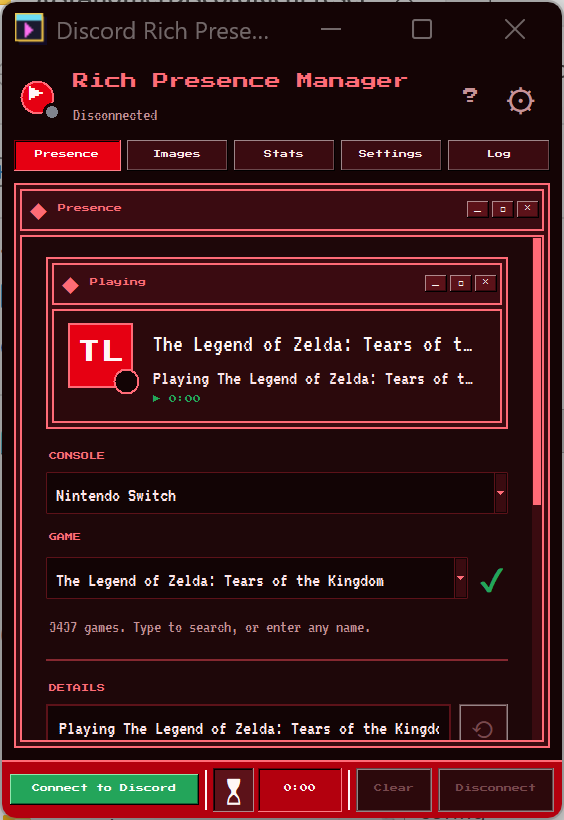
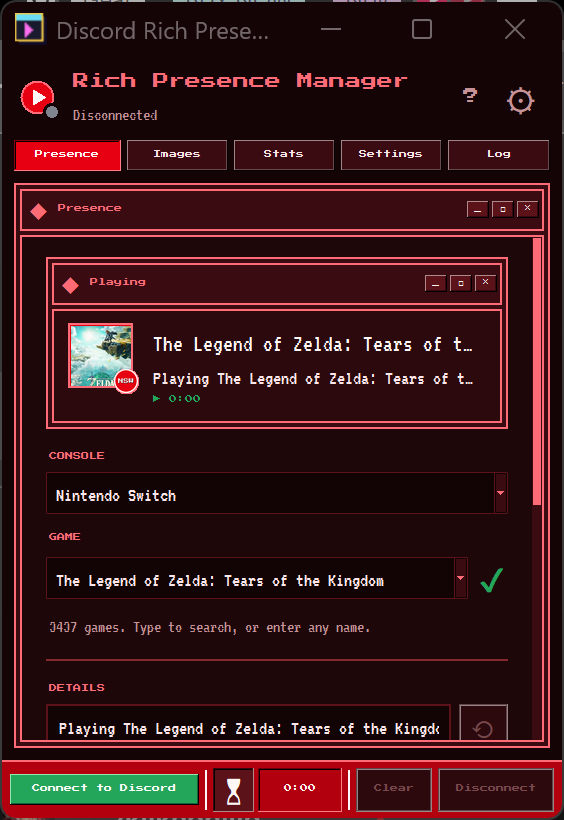
Add console badges and richer presence previews
Generate and bundle console-specific badges for Discord small images, add local/remote image previews to the app, and set the activity title to the game name when Discord accepts it. Update build dependencies and README guidance accordingly.

Changed region(s): [[0.9645, 0.0, 1.0, 1.0], [0.0, 0.0, 0.0904, 1.0], [0.1206, 0.3963, 0.2411, 0.4878]]

diff --git a/main.py b/main.py
@@ -5,6 +5,7 @@ import tkinter as tk
 from tkinter import ttk, messagebox, filedialog
 import base64
 import configparser
+import io
 import os
 import sys
 import threading
@@ -18,8 +19,19 @@ import theme
 import time
 from datetime import datetime
 
+try:
+    # Decodes JPG cover art for the preview; without it the preview shows initials
+    from PIL import Image, ImageOps, ImageTk
+except ImportError:
+    Image = None
+
 
 TAB_NAMES = ("Presence", "Images", "Stats", "Settings", "Log")
+
+# Console badges from tools/make_badges.py, as linked from the game database. The
+# preview reads these from the bundled assets/badges/ folder instead of downloading them.
+BADGE_URL = "https://raw.githubusercontent.com/The1Azreen/JustAnotherDiscordRichPresenceApp/main/assets/badges/"
+BADGE_DIR = os.path.join(os.path.dirname(os.path.abspath(__file__)), "assets", "badges")
 
 
 class DiscordRPCApp:
@@ -50,6 +62,9 @@ class DiscordRPCApp:
         self.applied = None        # snapshot of the fields last sent to Discord
         self.reset_buttons = []    # (entry, database column, button)
         self.stats_period = "This month"
+        self.preview_urls = {}     # slot ("large"/"small") -> URL currently shown
+        self.preview_photos = {}   # slot -> PhotoImage, kept alive while displayed
+        self.image_cache = {}      # URL -> decoded image, or None if it failed to load
         
         # Load configuration
         self.load_config()
@@ -203,7 +218,12 @@ class DiscordRPCApp:
             c.create_oval(-1.5, -1.5, 39.5, 39.5, outline=theme.DESKTOP, width=7)
         else:
             c.create_oval(3, 3, 35, 35, fill=theme.BLURPLE, outline=theme.BORDER, width=2)
-            c.create_text(19, 19, text=initial or "▶", fill=theme.ACCENT_FG, font=theme.FONT_TITLE)
+            if initial:
+                c.create_text(19, 20, text=initial, fill=theme.ACCENT_FG, font=theme.FONT_TITLE)
+            else:
+                # Drawn rather than a ▶ glyph, which falls back to another font and sits off-centre;
+                # the triangle's centroid is nudged right of the circle centre so it looks centred
+                c.create_polygon(15, 11, 15, 27, 28, 19, fill=theme.ACCENT_FG, outline="")
         self.status_dot = c.create_oval(26, 26, 41, 41, outline=theme.DESKTOP, width=3,
                                         fill=theme.GREEN if self.connected else theme.OFFLINE)
 
@@ -400,8 +420,11 @@ class DiscordRPCApp:
         self.preview_art.create_rectangle(1, 1, 64, 64, fill=theme.BLURPLE, outline=theme.BORDER, width=2)
         self.preview_initials = self.preview_art.create_text(33, 33, text="?", fill=theme.ACCENT_FG,
                                                              font=theme.FONT_DISPLAY)
+        # Cover art and console badge, filled in from the image URLs by show_preview_image()
+        self.preview_large_image = self.preview_art.create_image(33, 33, state="hidden")
         self.preview_small = self.preview_art.create_oval(46, 46, 70, 70, fill=theme.BG_TERTIARY,
                                                           outline=theme.BORDER, width=2)
+        self.preview_small_image = self.preview_art.create_image(58, 58, state="hidden")
         self.preview_art.grid(row=1, column=0, sticky="nw", padx=(0, 10))
 
         text = tk.Frame(card, bg=theme.CARD)
@@ -887,6 +910,8 @@ class DiscordRPCApp:
 
         has_small = bool(getattr(self, "small_image_entry", None) and self.small_image_entry.get().strip())
         self.preview_art.itemconfig(self.preview_small, state="normal" if has_small else "hidden")
+        if hasattr(self, "small_image_entry"):  # both image fields exist once the Images tab is built
+            self.refresh_preview_images()
 
         if self.show_time_var.get():
             self.preview_timer.config(text=f"▶ {self.elapsed_text()}")
@@ -896,6 +921,68 @@ class DiscordRPCApp:
 
         if hasattr(self, "primary_button"):
             self.refresh_controls()
+
+    def refresh_preview_images(self):
+        """Load the image URLs into the preview when they change (asset keys can't be previewed)."""
+        for slot, entry in (("large", self.large_image_entry), ("small", self.small_image_entry)):
+            url = entry.get().strip()
+            if url == self.preview_urls.get(slot):
+                continue
+            self.preview_urls[slot] = url
+            local = os.path.join(BADGE_DIR, url[len(BADGE_URL):]) if url.startswith(BADGE_URL) else None
+            if Image and local and os.path.isfile(local):
+                if url not in self.image_cache:
+                    try:
+                        self.image_cache[url] = Image.open(local).convert("RGBA")
+                    except OSError:
+                        self.image_cache[url] = None
+                self.show_preview_image(slot, self.image_cache[url])
+                continue
+            if Image and url.lower().startswith(("http://", "https://")):
+                if url in self.image_cache:
+                    self.show_preview_image(slot, self.image_cache[url])
+                    continue
+                threading.Thread(target=self.fetch_preview_image, args=(slot, url), daemon=True).start()
+            self.show_preview_image(slot, None)
+
+    def fetch_preview_image(self, slot, url):
+        """Download and decode an image off the UI thread, then hand it back to Tk."""
+        try:
+            # Wikimedia and some other hosts refuse requests without a User-Agent
+            request = urllib.request.Request(url, headers={"User-Agent": "JustAnotherDRP/1.0"})
+            with urllib.request.urlopen(request, timeout=10) as response:
+                data = response.read(8 * 1024 * 1024)
+            image = Image.open(io.BytesIO(data))
+            image = image.convert("RGBA")
+        except Exception as e:
+            print(f"Could not load preview image {url}: {e}")
+            image = None
+        self.root.after(0, self.on_preview_image, slot, url, image)
+
+    def on_preview_image(self, slot, url, image):
+        self.image_cache[url] = image
+        if self.preview_urls.get(slot) == url:  # ignore downloads the user has since replaced
+            self.show_preview_image(slot, image)
+
+    def show_preview_image(self, slot, image):
+        """Show cover art (cropped square) or the console badge (fitted in the circle)."""
+        c = self.preview_art
+        item = self.preview_large_image if slot == "large" else self.preview_small_image
+        if image is None:
+            self.preview_photos.pop(slot, None)
+            c.itemconfig(item, image="", state="hidden")
+            if slot == "large":
+                c.itemconfig(self.preview_initials, state="normal")
+            return
+        if slot == "large":
+            picture = ImageOps.fit(image, (60, 60), Image.LANCZOS)
+        else:
+            picture = ImageOps.contain(image, (24, 24), Image.LANCZOS)  # fills the badge circle
+        photo = ImageTk.PhotoImage(picture)
+        self.preview_photos[slot] = photo
+        c.itemconfig(item, image=photo, state="normal")
+        if slot == "large":
+            c.itemconfig(self.preview_initials, state="hidden")
 
     def refresh_controls(self):
         """Sync buttons and markers that depend on the current inputs."""
@@ -1308,13 +1395,17 @@ That's it! Click "Load" to import your games from Google Sheets.
             small_image=small_image if small_image else None,
             small_text=small_text if small_text else None,
             start_timestamp=self.start_time,
-            party_size=self.party_size()
+            party_size=self.party_size(),
+            name=game or None
         )
-        
+
         if success:
             self.applied = self.presence_fields()
             self.session_logger.start(game or large_text or details, self.console_combo.get().strip() or None)
             self.log_message("Presence updated successfully")
+            if game and self.rpc.name_accepted is False:
+                self.log_message("Discord kept your application's name as the activity title. "
+                                 "Rename the app in the Developer Portal to change it.")
             self.refresh_primary_button()
         else:
             self.log_message("ERROR: Failed to update presence")

diff --git a/tools/make_badges.py b/tools/make_badges.py
@@ -1,0 +1,68 @@
+"""
+Draw assets/badges/*.png: pixel-style console badges for Discord's small image.
+
+Each badge is a brand-coloured circle (PlayStation blue, Xbox green, Nintendo red)
+with a light ring and the console's short name in the bundled pixel font, so it
+stays readable at the ~20px Discord shows small images at, on a dark profile.
+
+The game database links to them on GitHub (see BADGE_URL in main.py), so commit
+and push new badges before Discord can show them.
+
+Needs Pillow: pip install pillow
+Usage: python tools/make_badges.py [output dir]   (default: assets/badges/)
+"""
+import os
+import sys
+
+from PIL import Image, ImageDraw, ImageFont
+
+ROOT = os.path.dirname(os.path.dirname(os.path.abspath(__file__)))
+FONT = os.path.join(ROOT, "fonts", "PressStart2P-Regular.ttf")
+SIZE = 256
+
+SONY, XBOX, NINTENDO = "#0070D1", "#107C10", "#E60012"
+BADGES = {  # database sheet name -> (file name, label, colour)
+    "PS1": ("ps1", "PS1", SONY), "PS2": ("ps2", "PS2", SONY), "PS3": ("ps3", "PS3", SONY),
+    "PS4": ("ps4", "PS4", SONY), "PS5": ("ps5", "PS5", SONY), "PSP": ("psp", "PSP", SONY),
+    "PS Vita": ("ps-vita", "VITA", SONY),
+    "OG Xbox": ("xbox", "XBOX", XBOX), "Xbox 360": ("xbox-360", "360", XBOX),
+    "Xbox One": ("xbox-one", "ONE", XBOX), "Xbox Series X": ("xbox-series", "X|S", XBOX),
+    "NES": ("nes", "NES", NINTENDO), "SNES": ("snes", "SNES", NINTENDO),
+    "Nintendo 64": ("n64", "N64", NINTENDO), "GameCube": ("gamecube", "GC", NINTENDO),
+    "Wii": ("wii", "Wii", NINTENDO), "Wii U": ("wii-u", "WiiU", NINTENDO),
+    "Nintendo Switch": ("switch", "NSW", NINTENDO), "Nintendo Switch 2": ("switch-2", "NS2", NINTENDO),
+    "Game Boy": ("game-boy", "GB", NINTENDO), "Game Boy Color": ("game-boy-color", "GBC", NINTENDO),
+    "Game Boy Advance": ("game-boy-advance", "GBA", NINTENDO),
+    "Nintendo DS": ("ds", "DS", NINTENDO), "Nintendo 3DS": ("3ds", "3DS", NINTENDO),
+}
+
+
+def badge(label, colour):
+    img = Image.new("RGBA", (SIZE, SIZE), (0, 0, 0, 0))
+    d = ImageDraw.Draw(img)
+    d.ellipse((0, 0, SIZE - 1, SIZE - 1), fill="#FFFFFF")          # light ring
+    d.ellipse((14, 14, SIZE - 15, SIZE - 15), fill=colour)
+    # Biggest pixel-font size (multiples of 8 stay crisp) that fits inside the circle
+    for size in range(96, 7, -8):
+        font = ImageFont.truetype(FONT, size)
+        left, top, right, bottom = d.textbbox((0, 0), label, font=font)
+        if right - left <= SIZE * 0.66:
+            break
+    x = (SIZE - (right - left)) / 2 - left
+    y = (SIZE - (bottom - top)) / 2 - top
+    shadow = max(4, size // 12)
+    d.text((x + shadow, y + shadow), label, font=font, fill=(0, 0, 0, 110))
+    d.text((x, y), label, font=font, fill="#FFFFFF")
+    return img
+
+
+def main():
+    out = sys.argv[1] if len(sys.argv) > 1 else os.path.join(ROOT, "assets", "badges")
+    os.makedirs(out, exist_ok=True)
+    for slug, label, colour in BADGES.values():
+        badge(label, colour).save(os.path.join(out, f"{slug}.png"), optimize=True)
+    print(f"Wrote {len(BADGES)} badges to {out}")
+
+
+if __name__ == "__main__":
+    main()

diff --git a/discord_rpc.py b/discord_rpc.py
@@ -3,9 +3,11 @@ Discord Rich Presence integration module.
 """
 from pypresence import Presence
 from pypresence.exceptions import DiscordNotFound, InvalidPipe, ConnectionTimeout, InvalidID, DiscordError
+from pypresence.payloads import Payload
 from pypresence.utils import get_ipc_path
 import asyncio
 import json
+import os
 import struct
 import sys
 import time
@@ -65,6 +67,7 @@ class DiscordRPC:
         self.connected = False
         self.current_presence = {}
         self.user = None  # dict with id, username, global_name, avatar once connected
+        self.name_accepted = None  # whether Discord kept the custom activity name last time
         self._update_thread = None
         self._stop_update = False
     
@@ -108,11 +111,13 @@ class DiscordRPC:
     
     def update_presence(self, details=None, state=None, large_image=None, 
                        large_text=None, small_image=None, small_text=None,
-                       start_timestamp=None, party_size=None):
+                       start_timestamp=None, party_size=None, name=None):
         """
         Update Discord Rich Presence.
-        
+
         Args:
+            name: Activity title, e.g. the game; shown instead of the Discord
+                application's name where Discord honours it (see name_accepted)
             details: First line of presence (e.g., "Playing Pokemon Red")
             state: Second line of presence (e.g., "Exploring Kanto")
             large_image: Asset name or URL for large image
@@ -150,8 +155,16 @@ class DiscordRPC:
             if party_size:
                 presence['party_size'] = [int(n) for n in party_size]
             
-            # Update presence
-            self.rpc.update(**presence)
+            if name:
+                # pypresence 4.3.0 has no `name` argument, so add it to the raw payload
+                payload = Payload.set_activity(pid=os.getpid(), activity=True, **presence)
+                payload.data["args"]["activity"]["name"] = str(name)
+                response = self.rpc.update(payload_override=payload)
+                # Discord echoes the activity it stored; a different name means it ignored ours
+                stored = ((response or {}).get("data") or {}).get("name")
+                self.name_accepted = stored == str(name)
+            else:
+                self.rpc.update(**presence)
             self.current_presence = presence.copy()
             print("Presence updated successfully")
             return True

diff --git a/README.md b/README.md
@@ -190,7 +190,8 @@ The game database can be stored in either:
 
 The "Large Image" and "Small Image" fields accept either:
 
-- **A direct image URL** (easiest): a link straight to a PNG, JPG or GIF, such as box art from `upload.wikimedia.org`. SVG files don't render, and the URL must be under 256 characters. Box art for the large image and a console logo for the small one works well.
+- **A direct image URL** (easiest): a link straight to a PNG, JPG or GIF, such as box art from `upload.wikimedia.org`. SVG files don't render, and the URL must be under 256 characters. Box art works well for the large image.
+- **A console badge** for the small image: `assets/badges/` has a readable pixel badge per console (made by `python tools/make_badges.py`), linked as `https://raw.githubusercontent.com/The1Azreen/JustAnotherDiscordRichPresenceApp/main/assets/badges/<name>.png`. New badges show in Discord once they're pushed to GitHub; the app's preview reads them locally.
 - **An Art Asset key**: upload images in the [Developer Portal](https://discord.com/developers/applications) under "Rich Presence" > "Art Assets" (1024x1024 recommended for large, 256x256+ for small), then use the name you gave each image. New assets can take a few minutes to appear; restart Discord if one doesn't show up.
 
 Set hover text in "Large Image Text" and "Small Image Text".
@@ -349,8 +350,9 @@ JustAnotherDiscordRichPresenceApp/
 ├── theme.py                # Retro window theme, brand palettes and custom widgets
 ├── build_exe.bat           # Builds dist\JustAnotherDRP.exe with PyInstaller
 ├── assets/app.ico          # App icon
+├── assets/badges/          # Console badges used as the Discord small image
 ├── fonts/                  # Bundled pixel fonts (Press Start 2P, VT323)
-├── tools/                  # Icon generator and sample session data generator
+├── tools/                  # Icon, badge and sample session data generators
 ├── tests/                  # Unit tests for the session pipeline
 ├── docs/screenshots/       # Screenshots used in this README
 ├── games_database.xlsx     # Local game information database (you provide)
